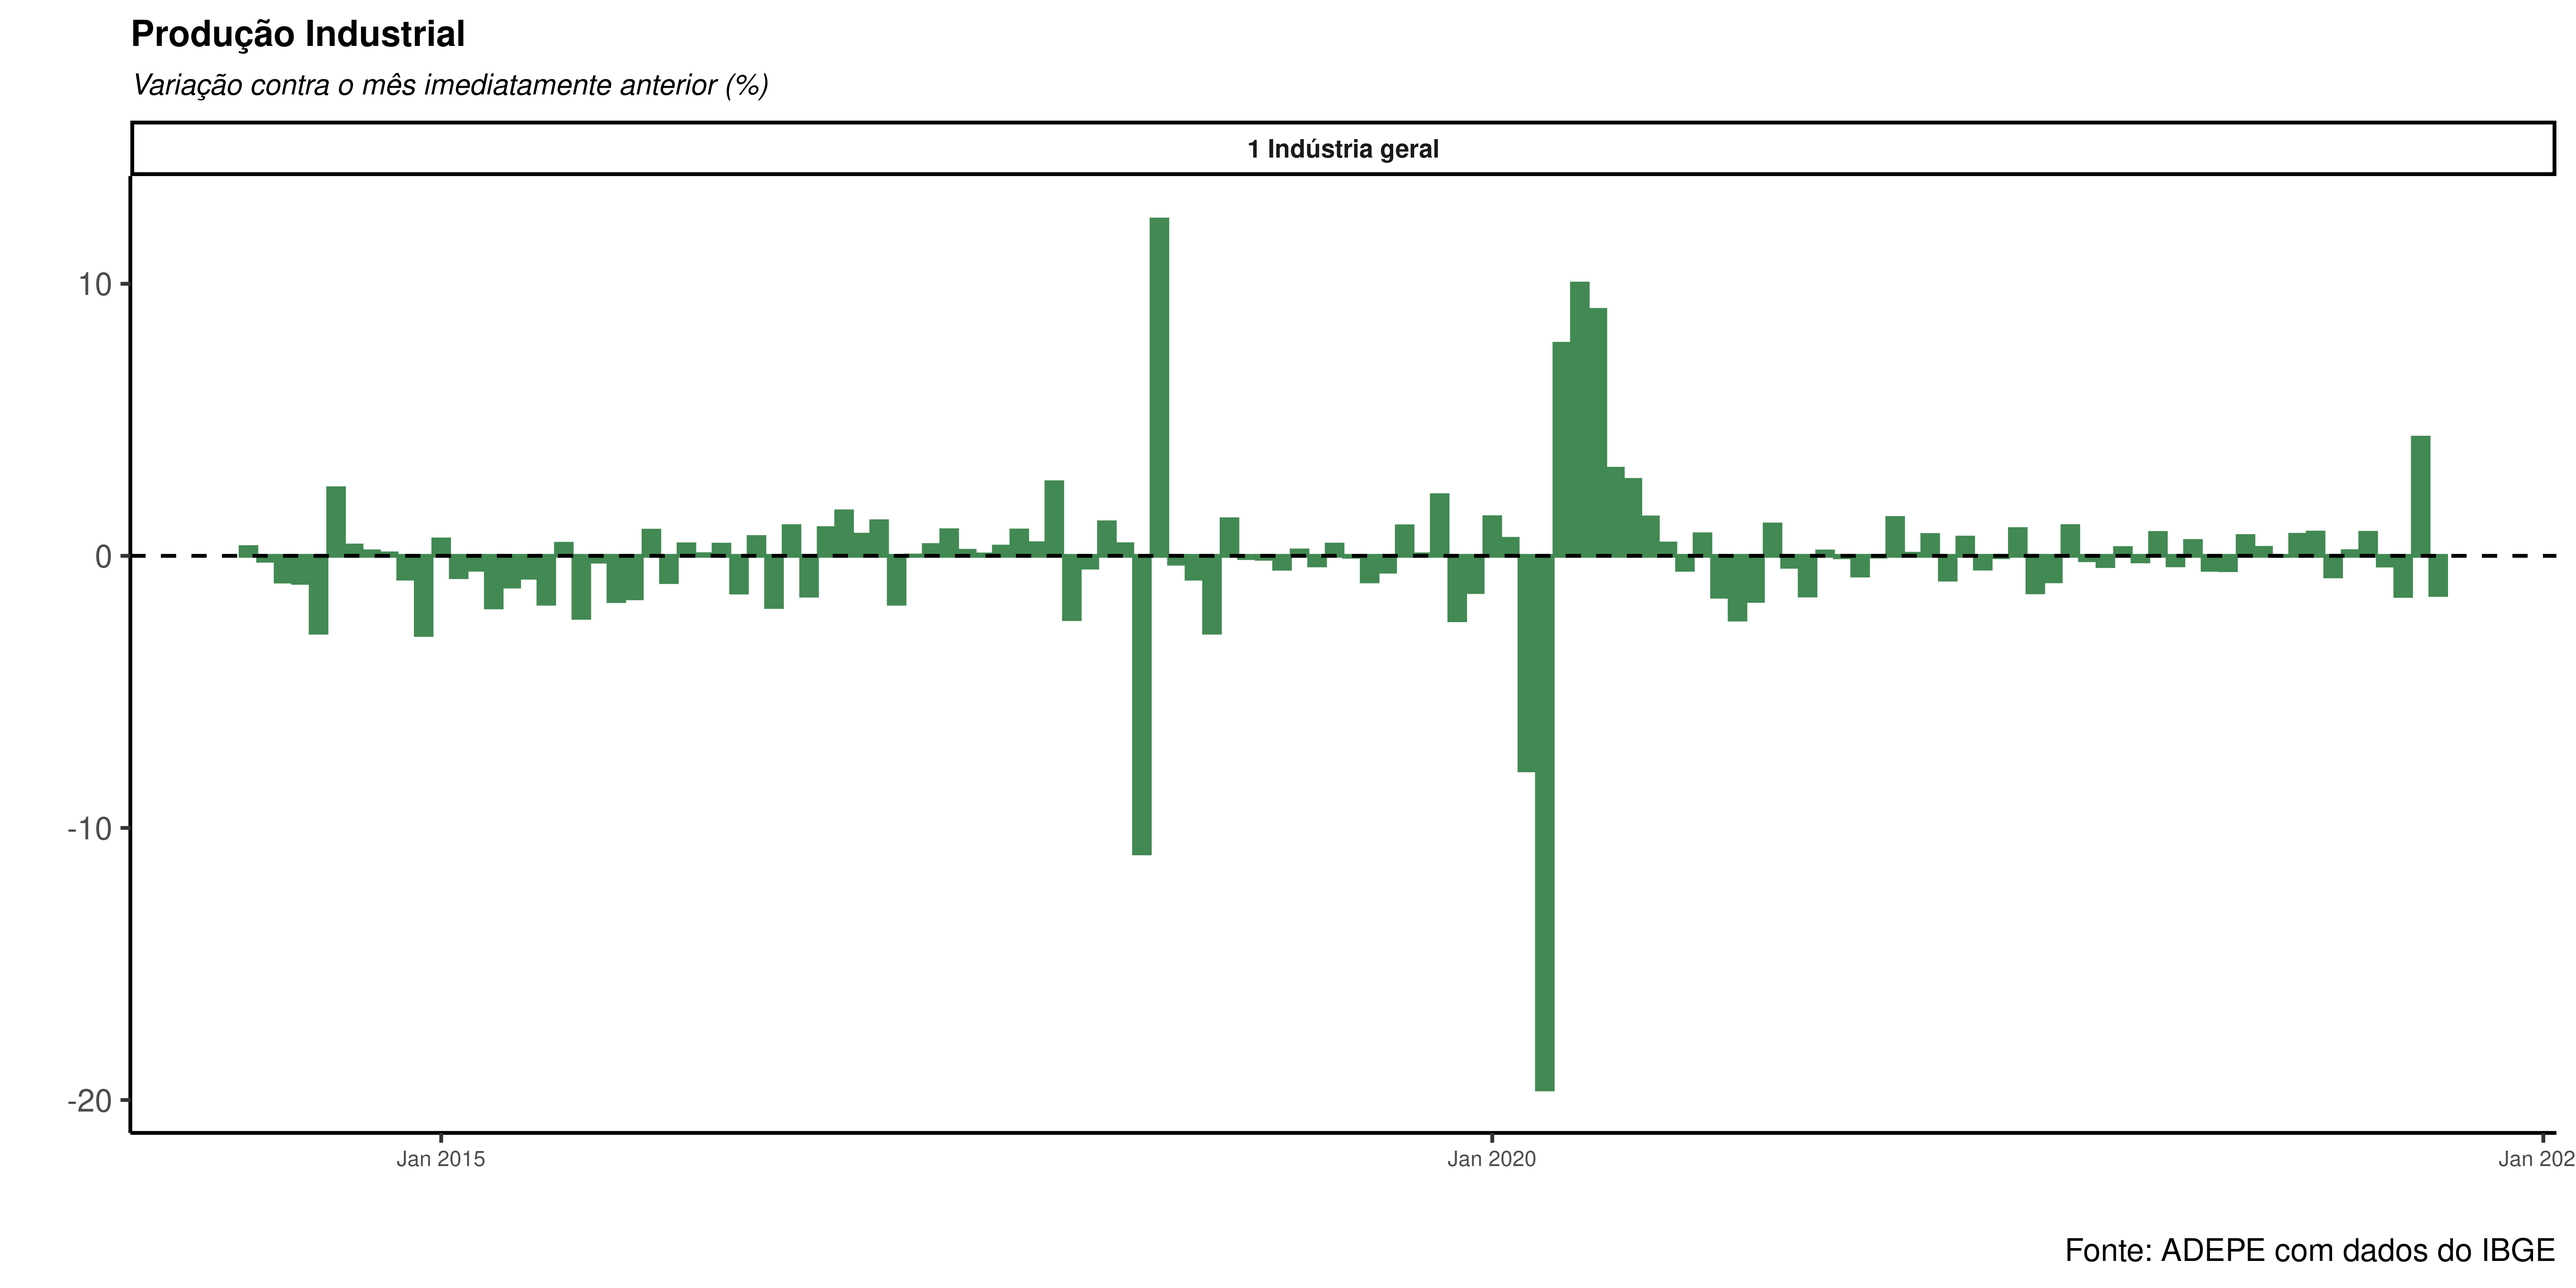
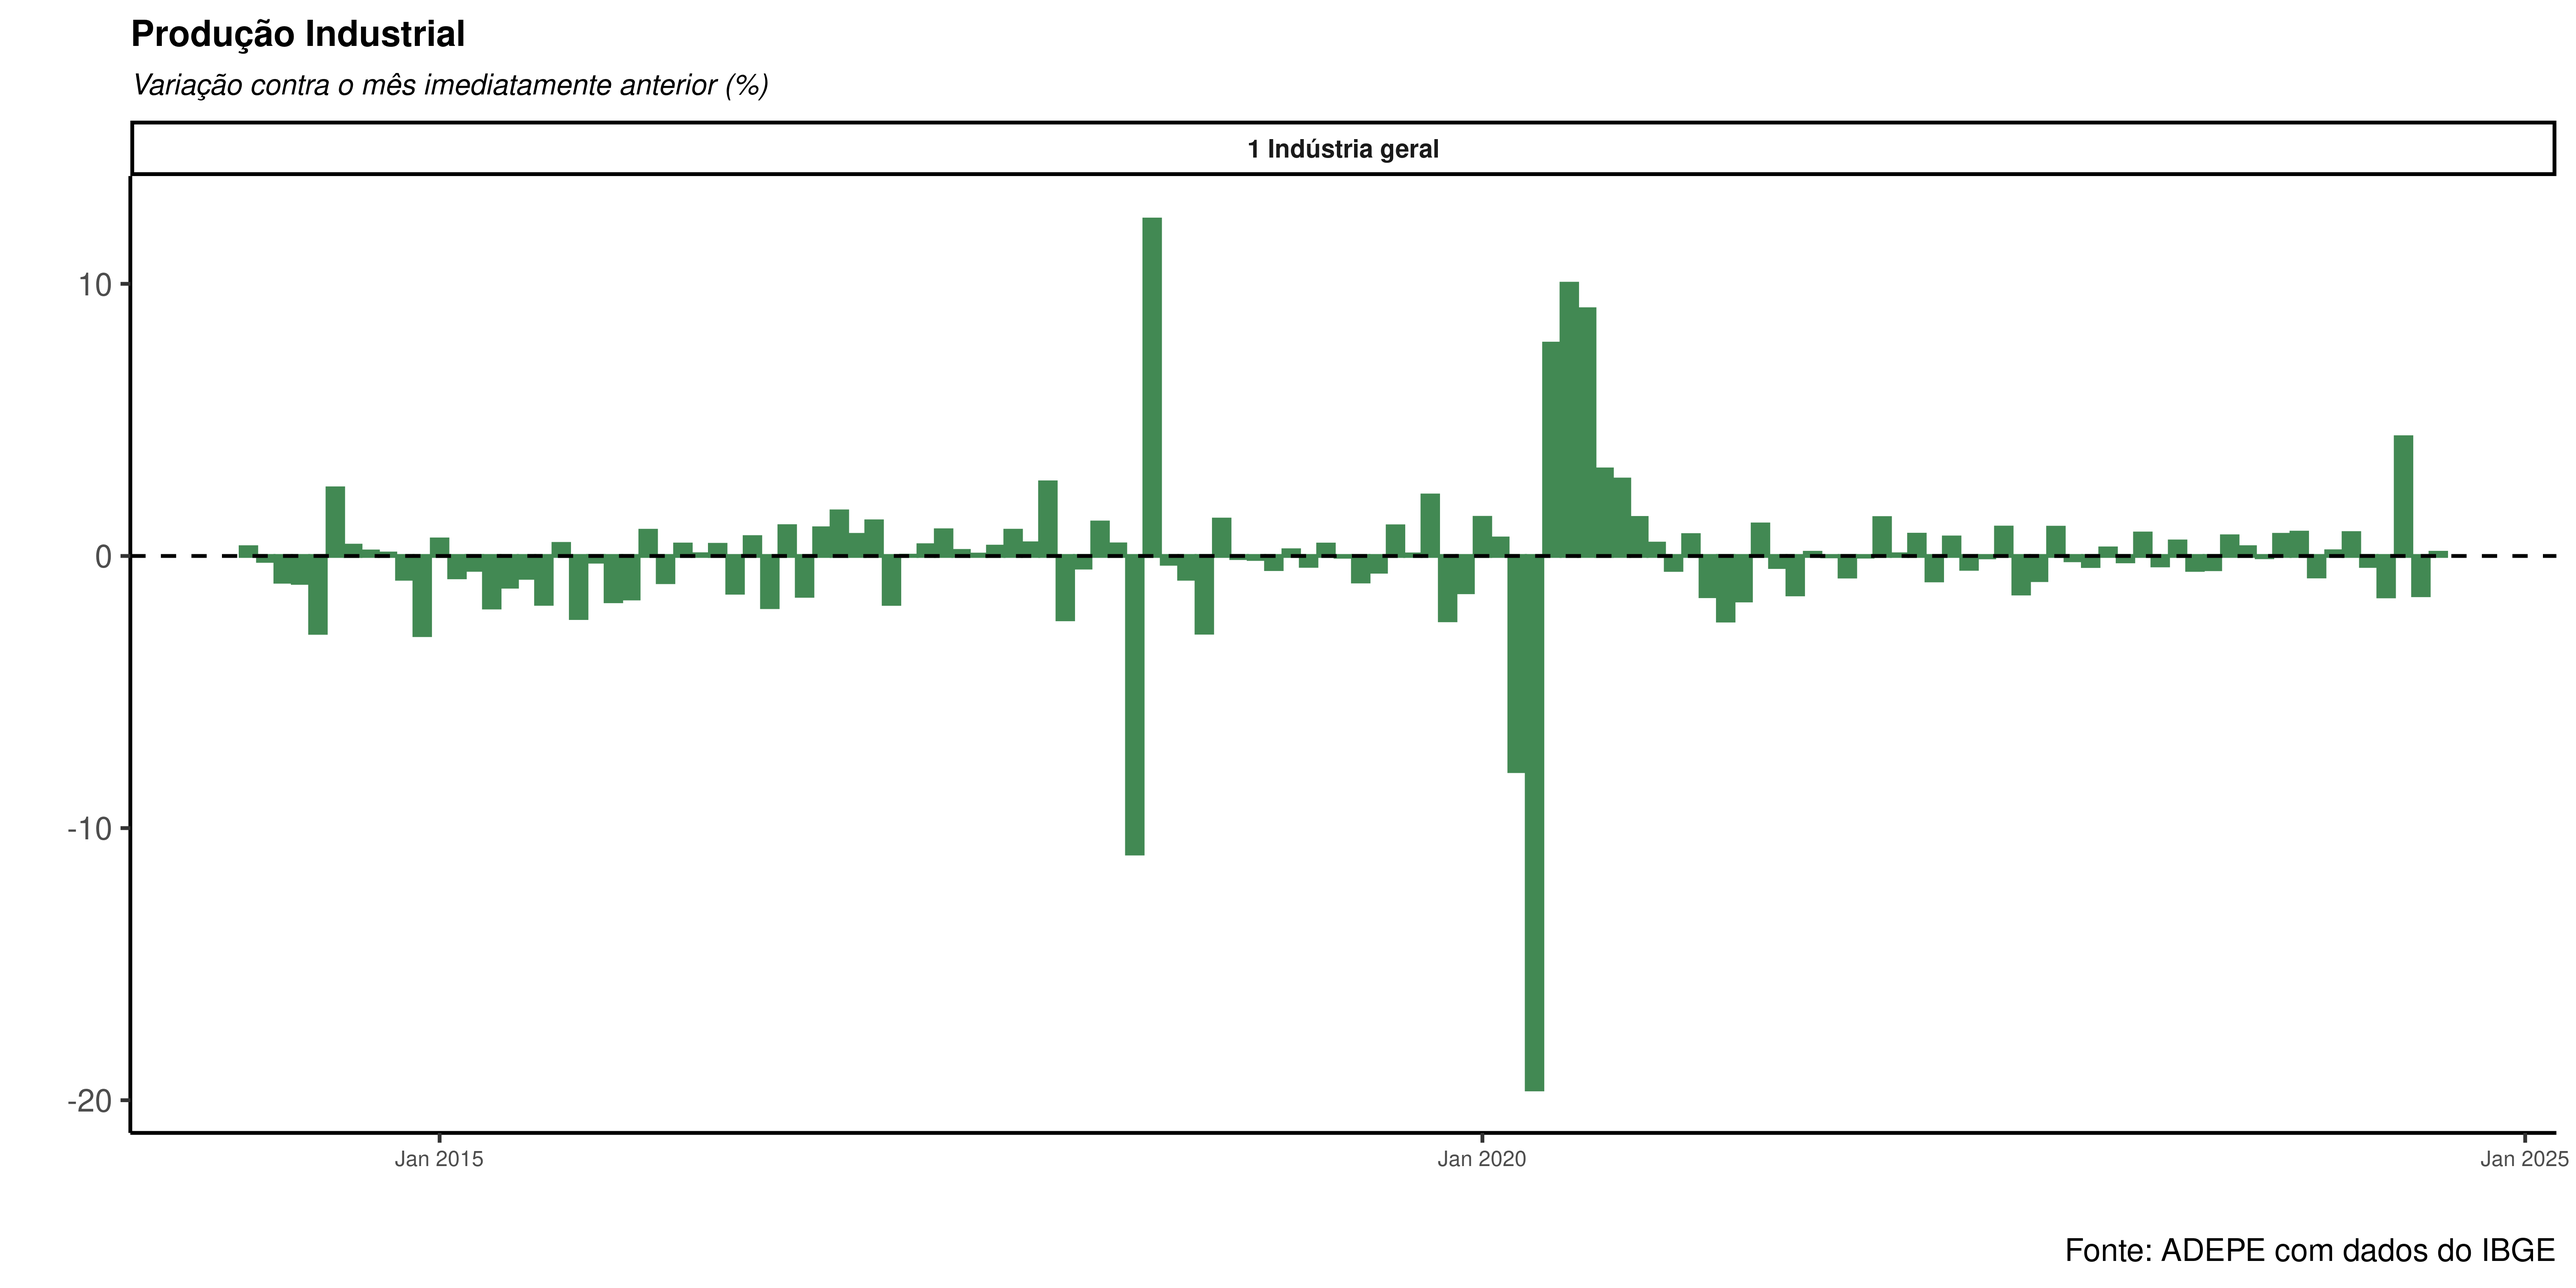
Atualização de relatório automatizada

diff --git a/pim/pim.html b/pim/pim.html
@@ -388,40 +388,40 @@ Núcleo de Dados <br><span style="font-size: 70%;">ADEPE<br><a href="https://git
 </thead>
 <tbody>
 <tr class="odd">
-<td style="text-align: center;">Feb 2024</td>
-<td style="text-align: center;">0.17</td>
-<td style="text-align: center;">-1.32</td>
-<td style="text-align: center;">0.57</td>
-</tr>
-<tr class="even">
 <td style="text-align: center;">Mar 2024</td>
-<td style="text-align: center;">0.85</td>
-<td style="text-align: center;">0.59</td>
-<td style="text-align: center;">0.73</td>
+<td style="text-align: center;">0.84</td>
+<td style="text-align: center;">0.60</td>
+<td style="text-align: center;">0.71</td>
 </tr>
-<tr class="odd">
+<tr class="even">
 <td style="text-align: center;">Apr 2024</td>
-<td style="text-align: center;">-0.36</td>
-<td style="text-align: center;">-3.47</td>
-<td style="text-align: center;">0.29</td>
-</tr>
-<tr class="even">
-<td style="text-align: center;">May 2024</td>
-<td style="text-align: center;">-1.47</td>
-<td style="text-align: center;">3.08</td>
-<td style="text-align: center;">-2.41</td>
+<td style="text-align: center;">-0.37</td>
+<td style="text-align: center;">-3.52</td>
+<td style="text-align: center;">0.26</td>
 </tr>
 <tr class="odd">
-<td style="text-align: center;">Jun 2024</td>
-<td style="text-align: center;">4.34</td>
-<td style="text-align: center;">2.58</td>
-<td style="text-align: center;">4.91</td>
+<td style="text-align: center;">May 2024</td>
+<td style="text-align: center;">-1.49</td>
+<td style="text-align: center;">3.19</td>
+<td style="text-align: center;">-2.42</td>
 </tr>
 <tr class="even">
+<td style="text-align: center;">Jun 2024</td>
+<td style="text-align: center;">4.36</td>
+<td style="text-align: center;">2.54</td>
+<td style="text-align: center;">4.92</td>
+</tr>
+<tr class="odd">
 <td style="text-align: center;">Jul 2024</td>
 <td style="text-align: center;">-1.44</td>
-<td style="text-align: center;">-2.38</td>
-<td style="text-align: center;">-1.33</td>
+<td style="text-align: center;">-2.23</td>
+<td style="text-align: center;">-1.43</td>
+</tr>
+<tr class="even">
+<td style="text-align: center;">Aug 2024</td>
+<td style="text-align: center;">0.12</td>
+<td style="text-align: center;">1.12</td>
+<td style="text-align: center;">-0.28</td>
 </tr>
 </tbody>
 </table>
@@ -449,40 +449,40 @@ Núcleo de Dados <br><span style="font-size: 70%;">ADEPE<br><a href="https://git
 </thead>
 <tbody>
 <tr class="odd">
-<td style="text-align: center;">Feb 2024</td>
-<td style="text-align: center;">5.64</td>
-<td style="text-align: center;">5.43</td>
-<td style="text-align: center;">5.68</td>
-</tr>
-<tr class="even">
 <td style="text-align: center;">Mar 2024</td>
-<td style="text-align: center;">-2.91</td>
+<td style="text-align: center;">-2.90</td>
 <td style="text-align: center;">1.75</td>
 <td style="text-align: center;">-3.71</td>
 </tr>
-<tr class="odd">
+<tr class="even">
 <td style="text-align: center;">Apr 2024</td>
 <td style="text-align: center;">8.35</td>
 <td style="text-align: center;">-1.51</td>
-<td style="text-align: center;">10.16</td>
+<td style="text-align: center;">10.15</td>
 </tr>
-<tr class="even">
+<tr class="odd">
 <td style="text-align: center;">May 2024</td>
 <td style="text-align: center;">-1.18</td>
 <td style="text-align: center;">-0.07</td>
 <td style="text-align: center;">-1.37</td>
 </tr>
-<tr class="odd">
+<tr class="even">
 <td style="text-align: center;">Jun 2024</td>
-<td style="text-align: center;">3.22</td>
+<td style="text-align: center;">3.24</td>
 <td style="text-align: center;">1.14</td>
-<td style="text-align: center;">3.61</td>
+<td style="text-align: center;">3.63</td>
+</tr>
+<tr class="odd">
+<td style="text-align: center;">Jul 2024</td>
+<td style="text-align: center;">6.12</td>
+<td style="text-align: center;">-0.39</td>
+<td style="text-align: center;">7.33</td>
 </tr>
 <tr class="even">
-<td style="text-align: center;">Jul 2024</td>
-<td style="text-align: center;">6.13</td>
-<td style="text-align: center;">-0.43</td>
-<td style="text-align: center;">7.35</td>
+<td style="text-align: center;">Aug 2024</td>
+<td style="text-align: center;">2.24</td>
+<td style="text-align: center;">5.59</td>
+<td style="text-align: center;">1.68</td>
 </tr>
 </tbody>
 </table>
@@ -510,40 +510,40 @@ Núcleo de Dados <br><span style="font-size: 70%;">ADEPE<br><a href="https://git
 </thead>
 <tbody>
 <tr class="odd">
-<td style="text-align: center;">2024-02-01</td>
-<td style="text-align: center;">0.99</td>
-<td style="text-align: center;">7.73</td>
-<td style="text-align: center;">-0.17</td>
-</tr>
-<tr class="even">
 <td style="text-align: center;">2024-03-01</td>
 <td style="text-align: center;">0.66</td>
 <td style="text-align: center;">7.57</td>
 <td style="text-align: center;">-0.53</td>
 </tr>
-<tr class="odd">
+<tr class="even">
 <td style="text-align: center;">2024-04-01</td>
 <td style="text-align: center;">1.53</td>
 <td style="text-align: center;">7.29</td>
 <td style="text-align: center;">0.53</td>
 </tr>
-<tr class="even">
+<tr class="odd">
 <td style="text-align: center;">2024-05-01</td>
 <td style="text-align: center;">1.25</td>
 <td style="text-align: center;">6.27</td>
 <td style="text-align: center;">0.37</td>
 </tr>
-<tr class="odd">
-<td style="text-align: center;">2024-06-01</td>
-<td style="text-align: center;">1.51</td>
-<td style="text-align: center;">5.42</td>
-<td style="text-align: center;">0.82</td>
-</tr>
 <tr class="even">
+<td style="text-align: center;">2024-06-01</td>
+<td style="text-align: center;">1.52</td>
+<td style="text-align: center;">5.42</td>
+<td style="text-align: center;">0.83</td>
+</tr>
+<tr class="odd">
 <td style="text-align: center;">2024-07-01</td>
 <td style="text-align: center;">2.19</td>
-<td style="text-align: center;">4.73</td>
+<td style="text-align: center;">4.74</td>
 <td style="text-align: center;">1.74</td>
+</tr>
+<tr class="even">
+<td style="text-align: center;">2024-08-01</td>
+<td style="text-align: center;">2.36</td>
+<td style="text-align: center;">4.94</td>
+<td style="text-align: center;">1.90</td>
 </tr>
 </tbody>
 </table>
